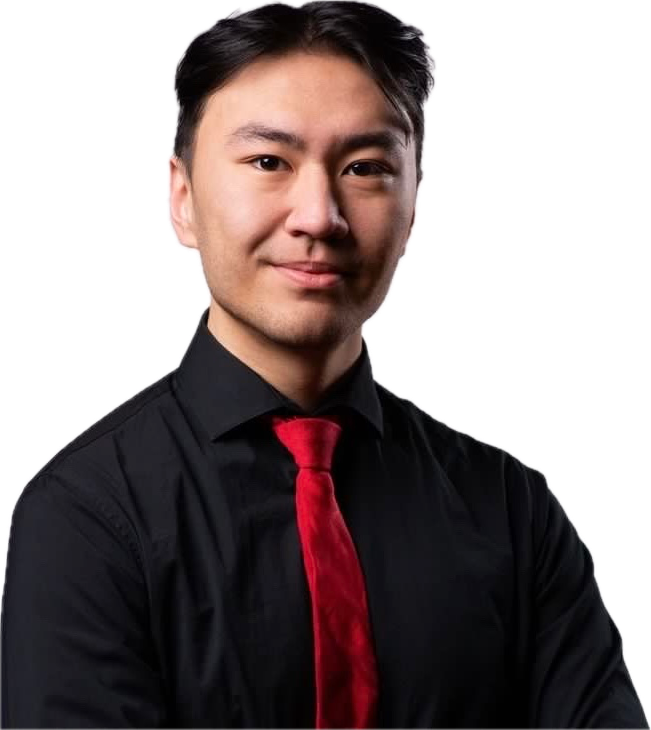
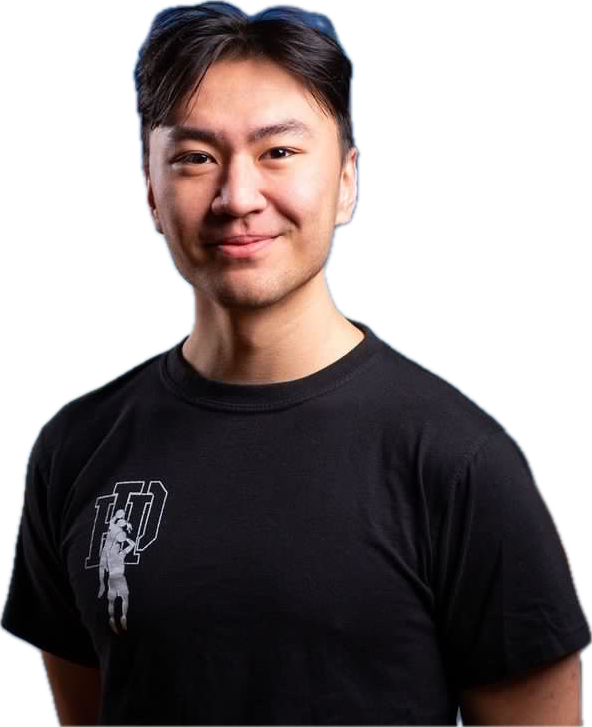
Use transparent cutout headshot in hero
Swap to the background-removed portrait and style it as a floating cutout
(object-fit contain, subtle drop shadow) instead of a bordered card.

diff --git a/frontend/src/index.css b/frontend/src/index.css
@@ -278,13 +278,14 @@ img {
   aspect-ratio: 4 / 5;
   border-radius: 18px;
 }
+/* Transparent cutout headshot — floats on the paper, no card/border */
 img.hero__photo {
   width: 100%;
   height: 100%;
-  object-fit: cover;
-  object-position: 50% 20%;
-  background: #fff;
-  border: 1px solid var(--hairline);
+  object-fit: contain;
+  object-position: center bottom;
+  border-radius: 0;
+  filter: drop-shadow(0 18px 30px rgba(0, 0, 0, 0.12));
 }
 
 /* ═══ MARQUEE ════════════════════════════════════════════════ */